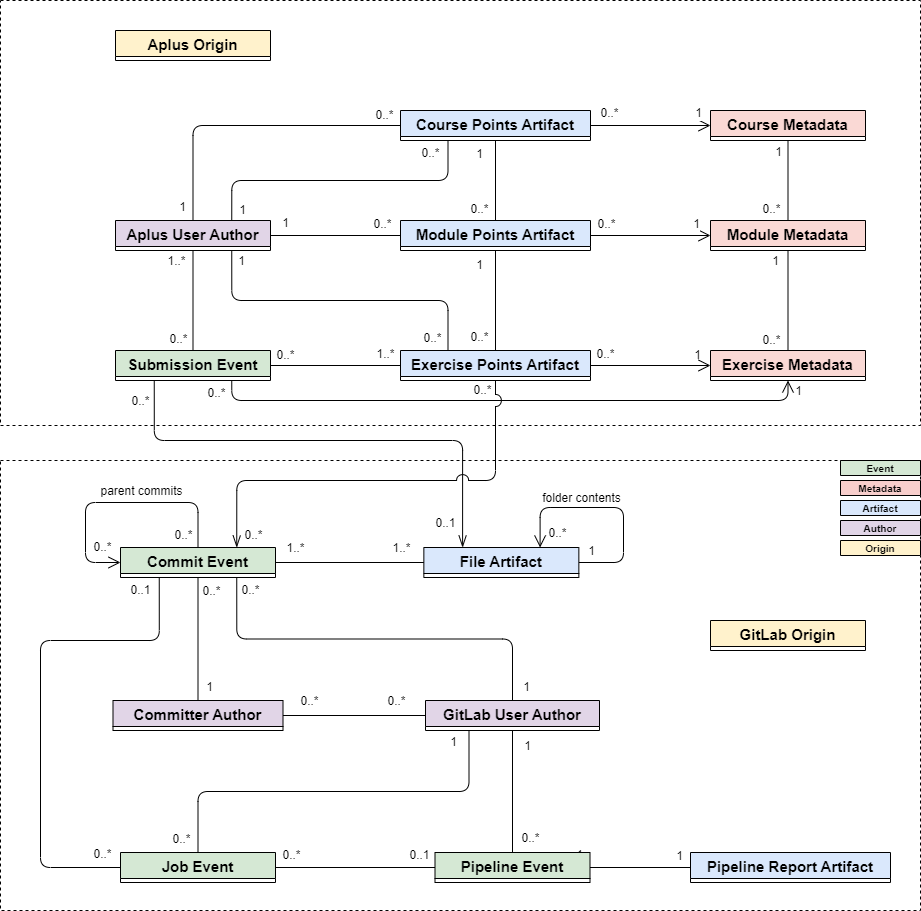
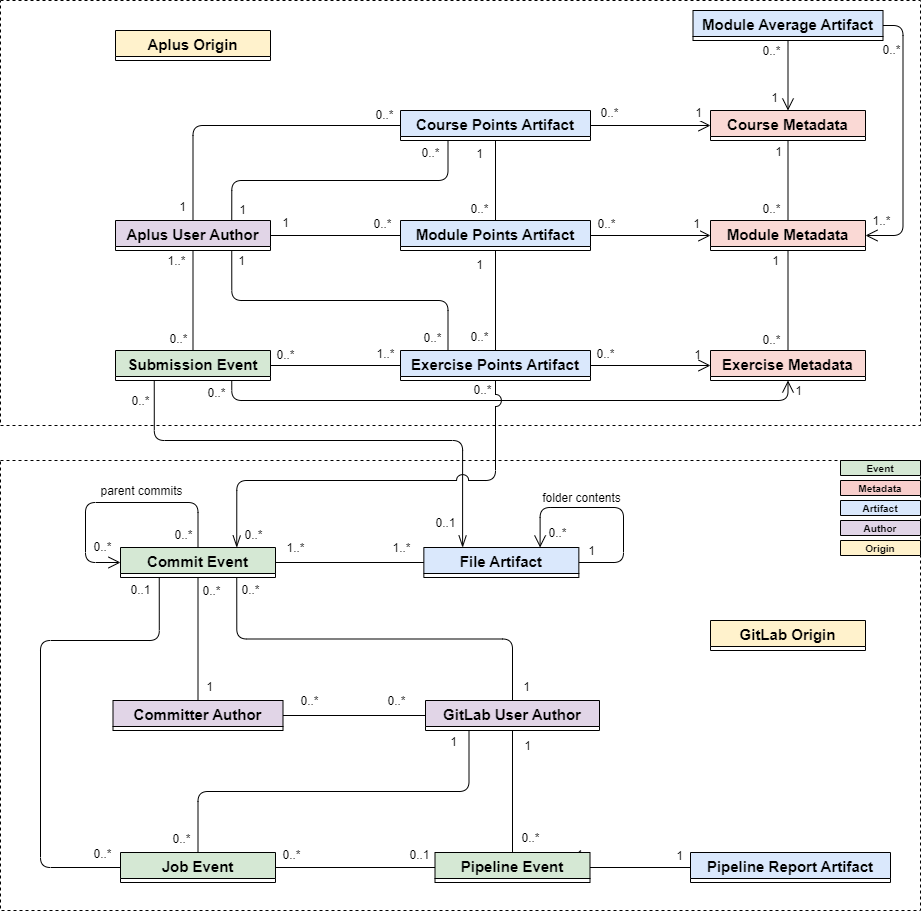
Included module_average in the adapter documentation.

Changed region(s): [[0.7296, 0.0, 0.9729, 0.0615], [0.8512, 0.0922, 0.8817, 0.1229]]

diff --git a/documentation/adapters/general/adapter_api.md b/documentation/adapters/general/adapter_api.md
@@ -15,6 +15,7 @@
         - [Example pipeline job event](#example-pipeline-job-event)
         - [Example file artifact](#example-file-artifact)
         - [Example pipeline report artifact](#example-pipeline-report-artifact)
+        - [Example module average artifact](#example-module-average-artifact)
         - [Example committer author](#example-committer-author)
         - [Example gitlab user author](#example-gitlab-user-author)
     - [Example info endpoint response](#example-info-endpoint-response)
@@ -410,6 +411,47 @@ One example for successful query for each supported object type is given below:
 ```
 
 TODO: add an example with some actual pipeline report content
+
+#### Example module average artifact
+
+```json
+{
+    "id": "4e1befae-7d96-5338-87ea-b91426d55d65",
+    "type": "module_average",
+    "name": "Week 12 averages - grade 3",
+    "description": "Week 12 averages for grade 3 in course 40",
+    "state": "finished",
+    "origin": {
+        "id": "5810771b-f368-57fc-026f-87b630179991",
+        "type": "aplus"
+    },
+    "data": {
+        "module_number": 12,
+        "grade": 3,
+        "course_id": 40,
+        "total": 21,
+        "avg_points": 69.61904761904762,
+        "avg_exercises": 3.4285714285714284,
+        "avg_submissions": 8.19047619047619,
+        "avg_commits": 8.952380952380953
+    },
+    "related_constructs": [
+        {
+            "id": "880b1a7b-0269-5682-2f63-289a952f6d8f",
+            "type": "course"
+        },
+        {
+            "id": "b8cfa110-e729-5f2d-9e6f-8155b2f5a79b",
+            "type": "module"
+        },
+        {
+            "id": "ce89f7d3-2b15-544f-906d-5f249ede6a7b",
+            "type": "module"
+        }
+    ],
+    "related_events": []
+}
+```
 
 #### Example committer author
 
